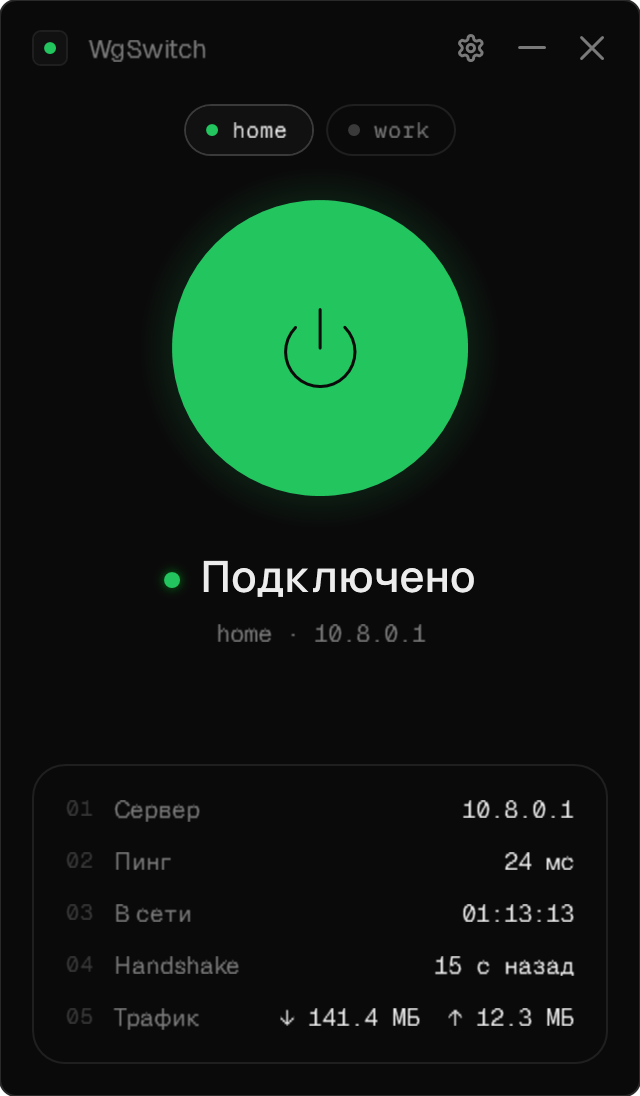
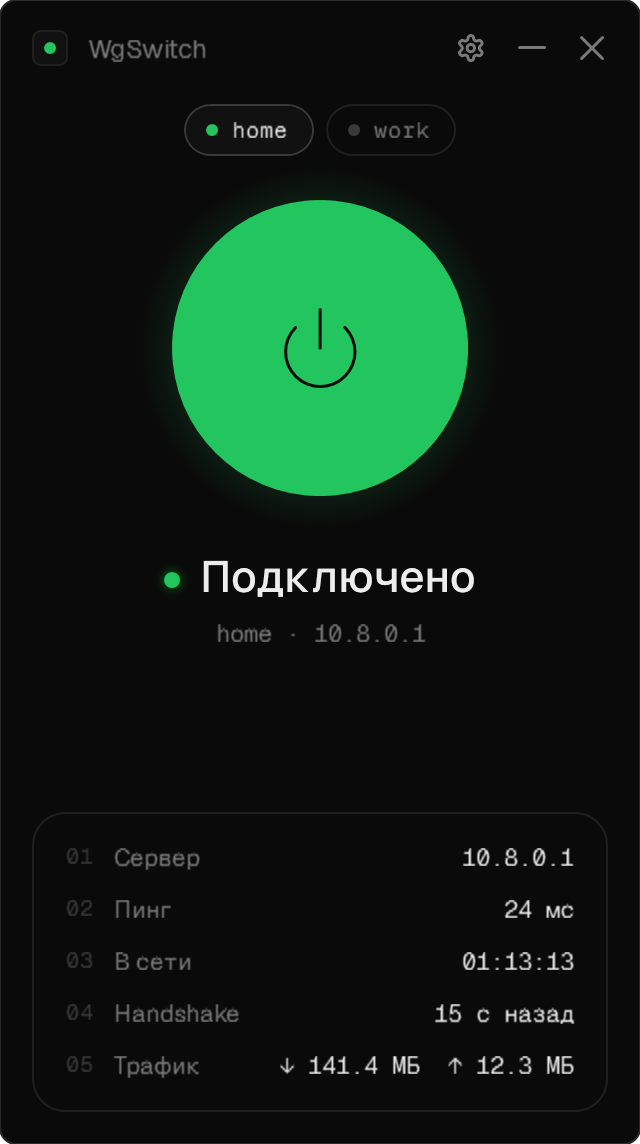
Настройки: переключатель «весь интернет через VPN» для сервера

diff --git a/MainWindow.xaml b/MainWindow.xaml
@@ -3,7 +3,7 @@
         xmlns:x="http://schemas.microsoft.com/winfx/2006/xaml"
         xmlns:local="clr-namespace:WgSwitch"
         Title="WgSwitch" Icon="Assets/app.ico"
-        Width="320" Height="548" ResizeMode="CanMinimize" WindowStartupLocation="Manual"
+        Width="320" Height="572" ResizeMode="CanMinimize" WindowStartupLocation="Manual"
         Background="{StaticResource Bg}" Foreground="{StaticResource Fg}" FontFamily="{StaticResource Sans}"
         UseLayoutRounding="True" SnapsToDevicePixels="True" TextOptions.TextFormattingMode="Display">
 
@@ -209,6 +209,10 @@
                         <Button Grid.Column="1" Style="{StaticResource GhostButton}" Content="Обзор" Margin="10,0,0,0" Click="Browse_Click" />
                     </Grid>
 
+                    <!-- режим маршрутизации этого сервера; применяется только по «Сохранить» -->
+                    <CheckBox x:Name="FullTunnelSetting" Style="{StaticResource BrandCheck}" Content="Весь интернет через VPN" Margin="0,16,0,0" />
+                    <TextBlock x:Name="FullTunnelHint" Style="{StaticResource Hint}" Margin="30,4,0,0" Text="Нужен NAT на сервере, см. SERVER.md" />
+
                     <StackPanel Orientation="Horizontal" Margin="0,22,0,14">
                         <TextBlock Style="{StaticResource Index}" Text="(02)" /><TextBlock Style="{StaticResource Label}" Text="Запуск" />
                     </StackPanel>
@@ -239,7 +243,7 @@
                         </Button>
                     </Grid>
 
-                    <Button Style="{StaticResource MadeBy}" HorizontalAlignment="Center" Margin="0,22,0,0" Click="MadeBy_Click" />
+                    <Button Style="{StaticResource MadeBy}" HorizontalAlignment="Center" Margin="0,16,0,0" Click="MadeBy_Click" />
                 </StackPanel>
 
                 <Grid Grid.Row="1">

diff --git a/Services/ConfigFactory.cs b/Services/ConfigFactory.cs
@@ -110,11 +110,11 @@ public static class ConfigFactory
             .AppendLine("[Interface]")
             .AppendLine($"PrivateKey = {privateKey}")
             .AppendLine($"Address = {r.ClientIp}/32");
-        if (r.FullTunnel) conf.AppendLine("DNS = 1.1.1.1, 1.0.0.1");
+        if (r.FullTunnel) conf.AppendLine(FullDns);
         conf.AppendLine()
             .AppendLine("[Peer]")
             .AppendLine($"PublicKey = {r.ServerPublicKey}")
-            .AppendLine($"AllowedIPs = {(r.FullTunnel ? "0.0.0.0/0, ::/0" : subnet)}")
+            .AppendLine($"AllowedIPs = {(r.FullTunnel ? FullRoutes : subnet)}")
             .AppendLine($"Endpoint = {r.Endpoint}")
             .AppendLine("PersistentKeepalive = 25");
 
@@ -131,6 +131,95 @@ public static class ConfigFactory
 
         var peer = $"[Peer]\nPublicKey = {publicKey}\nAllowedIPs = {r.ClientIp}/32";
         return new Result(r.Name, path, serverIp, $"{serverIp}/24", peer);
+    }
+
+    // ---------- весь трафик через VPN: переключение в готовом конфиге ----------
+
+    private const string FullRoutes = "0.0.0.0/0, ::/0";
+    private const string FullDns = "DNS = 1.1.1.1, 1.0.0.1";
+
+    /// <summary>Идёт ли весь трафик через туннель. null — конфиг не прочитать. Смотрим только на AllowedIPs.</summary>
+    public static bool? IsFullTunnel(string configPath)
+    {
+        try
+        {
+            return File.ReadLines(configPath.Trim().Trim('"'))
+                .Select(Parse)
+                .Any(kv => kv.Key == "allowedips" && kv.Value.Split(',').Any(v => v.Trim() == "0.0.0.0/0"));
+        }
+        catch (Exception ex) when (ex is IOException or UnauthorizedAccessException or ArgumentException)
+        {
+            return null;
+        }
+    }
+
+    /// <summary>
+    /// Переключить режим в конфиге: AllowedIPs у [Peer] — «весь трафик» или подсеть сервера (/24 из Address),
+    /// плюс наш DNS для полного режима. Остальные строки (ключи, Endpoint, свой DNS) не трогаем.
+    /// </summary>
+    public static void SetFullTunnel(string configPath, bool full)
+    {
+        var path = configPath.Trim().Trim('"');
+        var lines = File.ReadAllLines(path).ToList();
+
+        string? subnet = null;
+        int addressAt = -1, ourDnsAt = -1;
+        bool hasDns = false;
+        string section = "";
+        for (int i = 0; i < lines.Count; i++)
+        {
+            var t = lines[i].Trim();
+            if (t.StartsWith('[')) { section = t.ToLowerInvariant(); continue; }
+            var (key, value) = Parse(lines[i]);
+            if (section != "[interface]") continue;
+            if (key == "address")
+            {
+                addressAt = i;
+                var v4 = value.Split(',').Select(a => a.Trim().Split('/')[0])
+                    .FirstOrDefault(a => IPAddress.TryParse(a, out var ip) && ip.AddressFamily == AddressFamily.InterNetwork);
+                if (v4 is not null)
+                {
+                    var b = IPAddress.Parse(v4).GetAddressBytes();
+                    subnet = $"{b[0]}.{b[1]}.{b[2]}.0/24";
+                }
+            }
+            else if (key == "dns")
+            {
+                hasDns = true;
+                if (Normalize(lines[i]) == Normalize(FullDns)) ourDnsAt = i;
+            }
+        }
+        if (!full && subnet is null) throw new InvalidOperationException("В конфиге нет IPv4-адреса в Address");
+
+        section = "";
+        bool changed = false;
+        for (int i = 0; i < lines.Count; i++)
+        {
+            var t = lines[i].Trim();
+            if (t.StartsWith('[')) { section = t.ToLowerInvariant(); continue; }
+            if (section == "[peer]" && Parse(lines[i]).Key == "allowedips")
+            {
+                lines[i] = $"AllowedIPs = {(full ? FullRoutes : subnet)}";
+                changed = true;
+            }
+        }
+        if (!changed) throw new InvalidOperationException("В конфиге нет AllowedIPs у [Peer]");
+
+        // DNS: в полном режиме без своего DNS резолвер нужен внутри туннеля; при выходе убираем только свой
+        if (full && !hasDns && addressAt >= 0) lines.Insert(addressAt + 1, FullDns);
+        if (!full && ourDnsAt >= 0) lines.RemoveAt(ourDnsAt);
+
+        var tmp = path + ".tmp";
+        File.WriteAllLines(tmp, lines, new UTF8Encoding(false));
+        File.Move(tmp, path, overwrite: true);
+
+        static string Normalize(string s) => string.Concat(s.Where(c => !char.IsWhiteSpace(c))).ToLowerInvariant();
+    }
+
+    private static (string Key, string Value) Parse(string line)
+    {
+        int eq = line.IndexOf('=');
+        return eq < 0 ? ("", "") : (line[..eq].Trim().ToLowerInvariant(), line[(eq + 1)..].Trim());
     }
 
     /// <summary>Папка с конфигом: только Администраторы и SYSTEM (служба WireGuard работает от SYSTEM).</summary>

diff --git a/MainWindow.xaml.cs b/MainWindow.xaml.cs
@@ -429,6 +429,7 @@ public partial class MainWindow : Window
             MinimizedBox.IsChecked = c.StartMinimized;
             AutoConnectBox.IsChecked = c.AutoConnect;
             MinimizedBox.IsEnabled = c.AutoStart;
+            ShowFullTunnel(server?.ConfigPath);
             SettingsError.Text = "";
             SettingsPanel.Visibility = Visibility.Visible;
             SettingsPanel.IsHitTestVisible = true;
@@ -460,7 +461,24 @@ public partial class MainWindow : Window
         {
             ConfigBox.Text = path;
             NameBox.Text = SettingsService.TunnelNameOf(path); // другой файл — другое имя, переименовывать его не нужно
+            ShowFullTunnel(path);
         }
+    }
+
+    private bool? _fullTunnelWas;   // режим в конфиге на момент открытия; null — конфиг не прочитать
+
+    private void ShowFullTunnel(string? configPath)
+    {
+        _fullTunnelWas = configPath is null ? null : ConfigFactory.IsFullTunnel(configPath);
+        FullTunnelSetting.IsChecked = _fullTunnelWas == true;
+        FullTunnelSetting.IsEnabled = _fullTunnelWas is not null;
+    }
+
+    /// <summary>Новые AllowedIPs WireGuard подхватывает только при запуске службы.</summary>
+    private async Task ReconnectAsync(string name)
+    {
+        await _wg.DisconnectAsync(name);
+        await _wg.ConnectAsync(name);
     }
 
     private string? PickConfig(string current)
@@ -524,6 +542,19 @@ public partial class MainWindow : Window
             return;
         }
 
+        // «весь интернет через VPN» живёт в самом конфиге; меняем его до переименования, пока путь прежний
+        bool fullChanged = FullTunnelSetting.IsEnabled && _fullTunnelWas is { } was && (FullTunnelSetting.IsChecked == true) != was;
+        if (fullChanged)
+        {
+            try { ConfigFactory.SetFullTunnel(path, FullTunnelSetting.IsChecked == true); }
+            catch (Exception ex) when (ex is IOException or UnauthorizedAccessException or InvalidOperationException)
+            {
+                ShowSettingsError("Не удалось изменить конфиг: " + ex.Message);
+                return;
+            }
+            _fullTunnelWas = FullTunnelSetting.IsChecked == true;
+        }
+
         string? renamedFrom = null;
         if (rename)
         {
@@ -568,6 +599,9 @@ public partial class MainWindow : Window
         RebuildChips();
         Render(_wg.StatusOf(name), animate: true);
         ShowSettings(false);
+
+        if (fullChanged && _wg.StatusOf(name).State != TunnelState.Off)
+            _ = ReconnectAsync(name);
     }
 
     private void ShowSettingsError(string text, bool ok = false)

diff --git a/README.md b/README.md
@@ -46,7 +46,7 @@ Exe весит около **0.6 МБ**, сторонних библиотек н
   <tr>
     <td valign="top"><b>Одна кнопка.</b> Круг заливается цветом снизу вверх, рядом пинг, время в сети, последний handshake и трафик туннеля.</td>
     <td valign="top"><b>Честный статус.</b> WireGuard показывает «Active», даже когда сервер лёг. WgSwitch пингует сервер внутри туннеля и краснеет, если тот молчит.</td>
-    <td valign="top"><b>Настройки.</b> Имя, IP для проверки, путь к конфигу, автозапуск, запуск свёрнутым в трей, автоподключение и резервная копия.</td>
+    <td valign="top"><b>Настройки.</b> Имя, IP для проверки, путь к конфигу, режим «весь интернет через VPN», автозапуск, запуск свёрнутым в трей, автоподключение и резервная копия.</td>
   </tr>
   <tr>
     <td><img src="docs/readme/setup-2.png" alt="Мастер: данные сервера" /></td>
@@ -86,6 +86,9 @@ Exe весит около **0.6 МБ**, сторонних библиотек н
   подсети. Мастер сам предлагает свободную: `10.8.0.x`, затем `10.9.0.x` и так далее.
 - **Переименовать.** Поле «Имя» в настройках. WgSwitch сам переименует `.conf` и поправит путь (в Windows
   туннель называется по имени файла), так что трогать файл руками не нужно.
+- **Весь интернет через VPN.** Галочка в настройках сервера переключает `AllowedIPs` в его `.conf`:
+  `0.0.0.0/0, ::/0` или только подсеть сервера. Применяется по «Сохранить», включённый туннель
+  сам переподключится. Для полного режима на сервере нужен NAT ([SERVER.md](SERVER.md#-весь-трафик-через-vpn)).
 - **Удалить.** Убирает сервер из списка, но не удаляет его `.conf`.
 
 Переименовать и удалить можно только выключенный туннель.
@@ -109,7 +112,7 @@ Exe весит около **0.6 МБ**, сторонних библиотек н
 ## ✦ Безопасность
 
 - **Конфиги.** Мастер кладёт их в `C:\ProgramData\WgSwitch`, а доступ к папке есть только у Администраторов и SYSTEM.
-- **Приватный ключ.** Существует только в `.conf`. Приложение видит его дважды: когда создаёт ключ (`wg genkey`) и когда шифрует резервную копию. В обоих случаях ключ держится только в памяти, в логи и настройки не попадает.
+- **Приватный ключ.** Существует только в `.conf`. Приложение видит его, когда создаёт ключ (`wg genkey`), шифрует резервную копию и переписывает `AllowedIPs` при смене режима. Ключ держится только в памяти, в логи и настройки не попадает, а при смене режима остаётся в том же файле.
 - **Настройки.** В `%APPDATA%\WgSwitch\settings.json` лежат только пути, IP и флаги.
 - **Handshake и трафик.** Читаются через `wg show <имя> latest-handshakes` и `transfer`, а не через `dump`: `dump` выводит приватный ключ.
 - **Автозапуск.** Это задача планировщика «при входе» с наивысшими правами. Ключ реестра `Run` не подходит: программы с `requireAdministrator` Windows через него молча не запускает.
